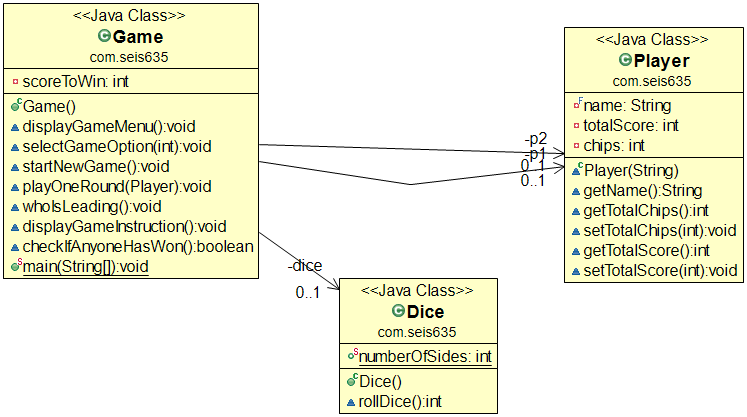
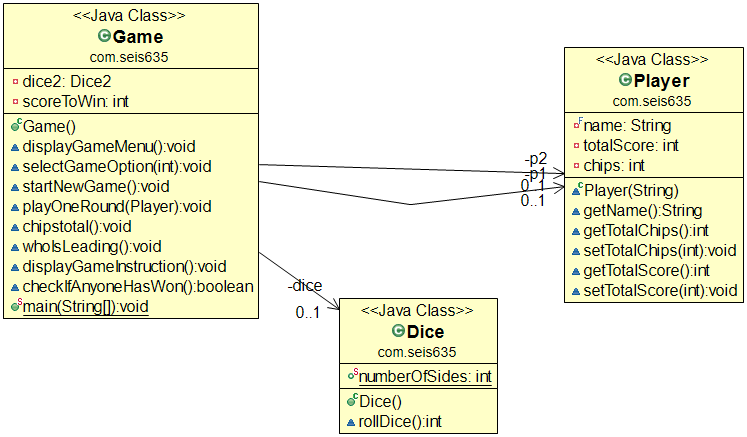
working on text.

Changed region(s): [[0.0, 0.0, 0.6774, 0.9976], [0.3387, 0.0624, 1.0, 0.717]]

diff --git a/src/com/seis635/Game.java b/src/com/seis635/Game.java
@@ -10,6 +10,7 @@ public class Game {
     private Player p1;
     private Player p2;
     private Dice dice;
+    private Dice2 dice2;
     private int scoreToWin;
 
     void displayGameMenu() {
@@ -58,46 +59,52 @@ public class Game {
         p1 = new Player(p1Name);
         p2 = new Player(p2Name);
         dice = new Dice();
+        dice2 = new Dice2();
     }
 
     void playOneRound(Player p) {
         int result;
-        int bank = 50;
+        int bank;
+        int bank2 =-1;
+        int bank3 =-4;
         int firstDiceRoll = dice.rollDice();
-        int secondDiceRoll = dice.rollDice();
+        int secondDiceRoll = dice2.rollDice2();
      if (firstDiceRoll == 1 && secondDiceRoll  == 1) {
         result = (0);
-        bank -= 4;
-        p.setTotalChips(bank);
+        bank = (0);
+        p1.setTotalChips(bank);
+        p2.setTotalChips(bank);
         p.setTotalScore(result);
         System.out.printf("(GameOver player lost)",
                 p.getName(), firstDiceRoll, secondDiceRoll,
-                result, p.getTotalScore(), p.getTotalChips());
+                result, p.getTotalScore(), p1.getTotalChips(), p2.getTotalChips());
         
      } else if (firstDiceRoll == 1) {
             result = (0);
-           bank -= 1;
-            p.setTotalChips(bank);
+           bank = (0);
+            p1.setTotalChips(bank);
+            p2.setTotalChips(bank);
             p.setTotalScore(result);
             System.out.printf("%s rolled %d and %d, "
                     + "and scored %d points(Skunk), "
                     + "for a total of %d points,"
                     +  "  -1 to kitty %d chips total",
                     p.getName(), firstDiceRoll, secondDiceRoll,
-                    result, p.getTotalScore(), p.getTotalChips());
+                    result, p.getTotalScore(), p1.getTotalChips(), p2.getTotalChips());
         
         }
         else if (secondDiceRoll == 1) {
             result = (0);
-           bank -= 1;
-            p.setTotalChips(bank);
+            bank = (0);
+            p1.setTotalChips(bank);
+            p2.setTotalChips(bank);
             p.setTotalScore(result);
             System.out.printf("%s rolled %d and %d, "
                     + "and scored %d points(Skunk), "
                     + "for a total of %d points,"
                     +  "  -1 to kitty %d chips total",
                     p.getName(), firstDiceRoll, secondDiceRoll,
-                    result, p.getTotalScore(), p.getTotalChips());
+                    result, p.getTotalScore(), p1.getTotalChips(), p2.getTotalChips());
         
         
         
@@ -105,14 +112,17 @@ public class Game {
         }
         else {
             result = (firstDiceRoll + secondDiceRoll);
+            bank = 0;
+            p1.setTotalChips(bank);
+            p2.setTotalChips(bank);
             p.setTotalScore(result);
-            p.setTotalChips(bank);
+           
             System.out.printf("%s rolled %d and %d, "
                     + "and scored %d points, "
                     + "for a total of %d points,"
                     +  " Chips %d total",
                     p.getName(), firstDiceRoll, secondDiceRoll,
-                    result, p.getTotalScore(), p.getTotalChips());
+                    result, p.getTotalScore(), p1.getTotalChips(), p2.getTotalChips());
         }
      {
     
@@ -121,7 +131,9 @@ public class Game {
         System.out.println();
         }
     
-    
+    void chipstotal() {
+    	
+    }
     void whoIsLeading() {
         if (p1.getTotalScore() == p2.getTotalScore()) {
             System.out.format("Its currently a draw, "
@@ -152,7 +164,7 @@ public class Game {
         System.out.println("First player to reach or exceed the maxScore wins the game.");
         System.out.println("player is allowed 1 more roll after someone hits 100.");
         System.out.println("player are given 50 chips.");
-        System.out.println("player lose -1 chips if hit sunk.");
+        System.out.println("player lose -1 chips if hit skunk.");
         System.out.println("player lose -4 chips if hit sneakeye.");
     }
 
@@ -160,10 +172,11 @@ public class Game {
     	 int result;
          int bank = 50;
          int firstDiceRoll = dice.rollDice();
-         int secondDiceRoll = dice.rollDice();
+         int secondDiceRoll = dice2.rollDice2();
          
         if (p1.getTotalScore() >= scoreToWin && p2.getTotalScore() >= scoreToWin) {
             System.out.println("Its a draw! Both players have exceeded the score limit");
+            
             return true;
         }
             else if (p1.getTotalScore() >= scoreToWin && p2.getTotalScore() < scoreToWin) {
@@ -201,7 +214,7 @@ public class Game {
                     p1.getName(), firstDiceRoll, secondDiceRoll,
                     result, p1.getTotalScore(), p1.getTotalChips());
             
-            System.out.format("%s last roll", p2.getName());
+            System.out.format("%s ((LAST ROLL))", p2.getName());
             return true;
         } 
         return false;
